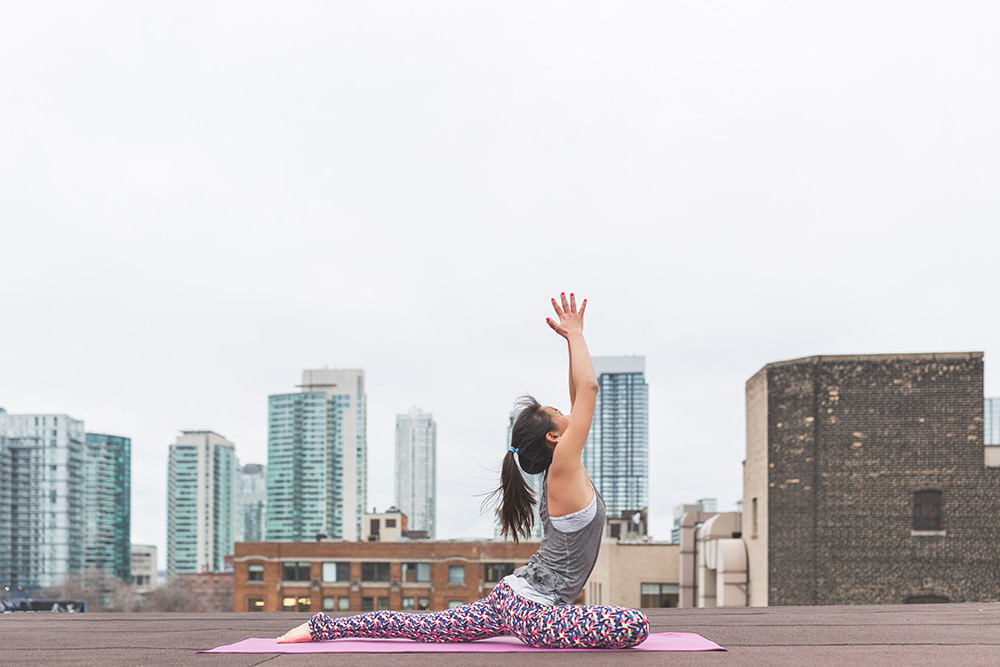
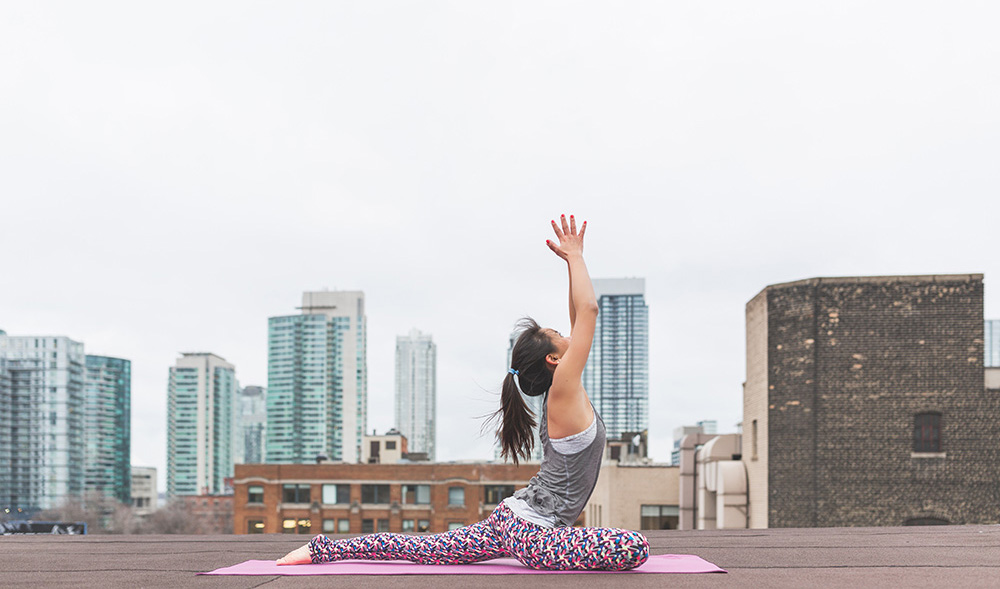
updated

Changed region(s): [[0.0, 0.3667, 1.0, 1.0]]

diff --git a/style.css b/style.css
@@ -140,7 +140,8 @@ img{
 	display: inline;
 	float: left;
 	width: 100%;
-	position: relative;	
+  position: absolute;	
+  z-index: 9999;
 }
 
 #menu-area #navbar {  
@@ -148,8 +149,13 @@ img{
 }
 
 #menu-area .navbar-default {
-  background-color: #fff;
-  border-color: #fff;
+  
+  background: -moz-linear-gradient(top, rgba(0,0,0,0.65) 0%, rgba(0,0,0,0) 100%); /* FF3.6-15 */
+  background: -webkit-linear-gradient(top, rgba(0,0,0,0.65) 0%,rgba(0,0,0,0) 100%); /* Chrome10-25,Safari5.1-6 */
+  background: linear-gradient(to bottom, rgba(0,0,0,0.65) 0%,rgba(0,0,0,0) 100%); /* W3C, IE10+, FF16+, Chrome26+, Opera12+, Safari7+ */
+  /*filter: progid:DXImageTransform.Microsoft.gradient( startColorstr='#a6000000', endColorstr='#00000000',GradientType=0 ); */
+
+  border: transparent;
   margin-bottom: 0;
 }
 
@@ -159,6 +165,8 @@ img{
   font-weight: bold;
   margin-top: 14px;
   text-transform: uppercase;
+  z-index: 9999;
+
 }
 
 .navbar-brand:hover,
@@ -179,7 +187,7 @@ img{
 }
 
 .navbar-default .navbar-nav > li > a {
-  color: #333;
+  color: white;
   display: inline-block !important;
   font-family: "Abril Fatface",sans-serif;
   font-size: 14px;
@@ -259,13 +267,13 @@ img{
 #slider{
 	display: inline;
 	float: left;
-	width: 100%;
+  width: 100%;
 }
 
 .main-slider {
   display: inline;
   float: left;
-  height: 600px;
+  height: 850px;
   margin-bottom: 0;
   width: 100%;
 }
@@ -280,7 +288,8 @@ img{
 }
 
 .single-slide img{
-	width: 100%;
+  width: 100%; 
+  
 }
 
 .slide-content {
